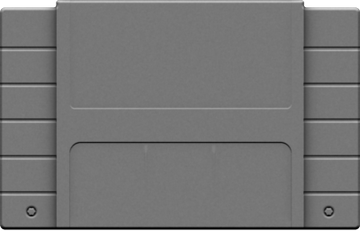
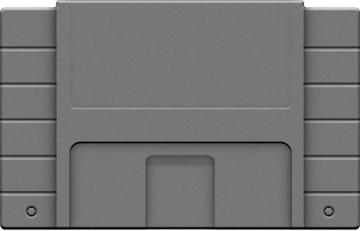
SNES NTSC cart: deeper bottom window with a notch in the middle
Claude-Session: https://claude.ai/code/session_01QKd2aZnZgZkwj4Ae6LDswU

diff --git a/tools/carts/snes_render.py b/tools/carts/snes_render.py
@@ -73,13 +73,13 @@ for v in (0.211, 0.367, 0.522, 0.681, 0.837):
 label = rect(0.195, -0.05, 0.809, 0.469, 0.012)
 height -= label * 1.2
 window = rect(0.194, 0.617, 0.809, 1.05, 0.03)
-height -= window * 2.6
+height -= window * 4.5  # deep, and runs out through the bottom edge (Roy's photo)
 yy, xx = np.mgrid[0:h, 0:w]
-for u in (0.405, 0.594):
-    t = np.clip((V(0.854) - yy) / (V(0.854) - V(0.627)), 0, 1)
-    t *= np.clip((yy - V(0.627)) / (V(0.66) - V(0.627)), 0, 1)  # eases in, no bright speck at the top
-    ridge = (np.abs(xx - U(u)) < 0.004 * w) & (yy > V(0.627)) & (yy < V(0.854)) & window
-    height += ridge * t * 1.6
+# a deeper notch in the middle of the window, entered by a short ramp with slanted shoulders
+notch = mask(lambda d: d.polygon([(U(0.405), V(0.69)), (U(0.42), V(0.672)), (U(0.58), V(0.672)),
+                                  (U(0.595), V(0.69)), (U(0.595), V(1.05)), (U(0.405), V(1.05))], fill=255))
+ramp = np.clip((yy - V(0.672)) / (V(0.715) - V(0.672)), 0, 1)
+height -= notch * window * ramp * 3.0
 gaps = gamebit(0.087, 0.917, height) | gamebit(0.913, 0.917, height)
 height *= cart
 hs = nd.gaussian_filter(height, SS * 0.55)
@@ -88,6 +88,10 @@ grey *= 1 - 0.65 * nd.gaussian_filter(gaps.astype(np.float32), 0.5 * SS)
 # the tall wall of the centre throws a soft shadow onto the side pieces, the same on both sides
 near = nd.distance_transform_edt(~centre) / w
 grey *= 1 - sides * 0.42 * np.exp(-near / 0.014)
+# and the walls of the deep window and its notch shade the floor next to them
+for well, k in ((window, 0.30), (notch & window, 0.30)):
+    wall = nd.distance_transform_edt(np.pad(well, ((1, 0), (1, 1)), constant_values=False))[1:, 1:-1] / w
+    grey *= 1 - well * k * np.exp(-wall / 0.010)
 A = save(grey3(grey), cart, 'snes_neutral.png')
 m = np.zeros((H, W, 4), np.uint8); m[..., :3] = 255; m[..., 3] = (A * 255).round().astype(np.uint8)
 Image.fromarray(m, 'RGBA').save(f'{out}/snes_cart.png')
